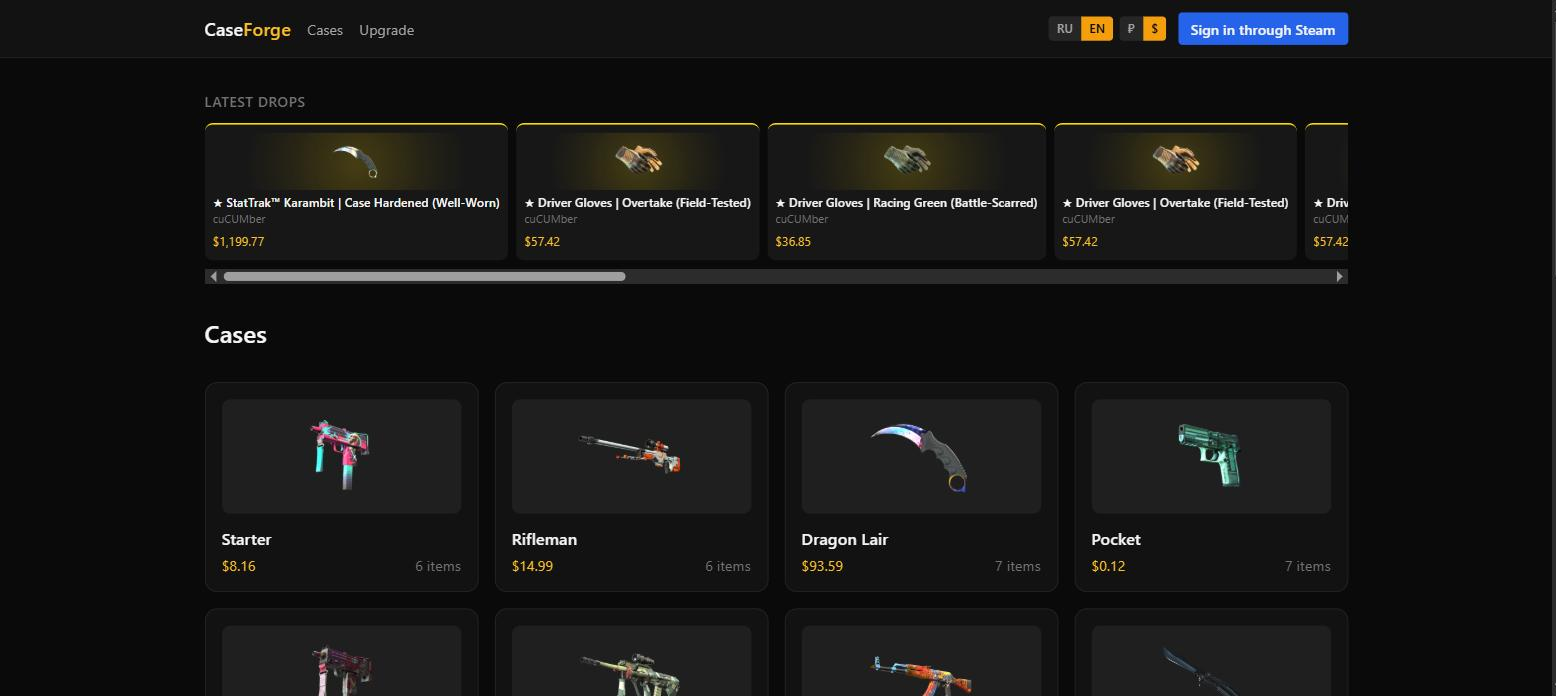
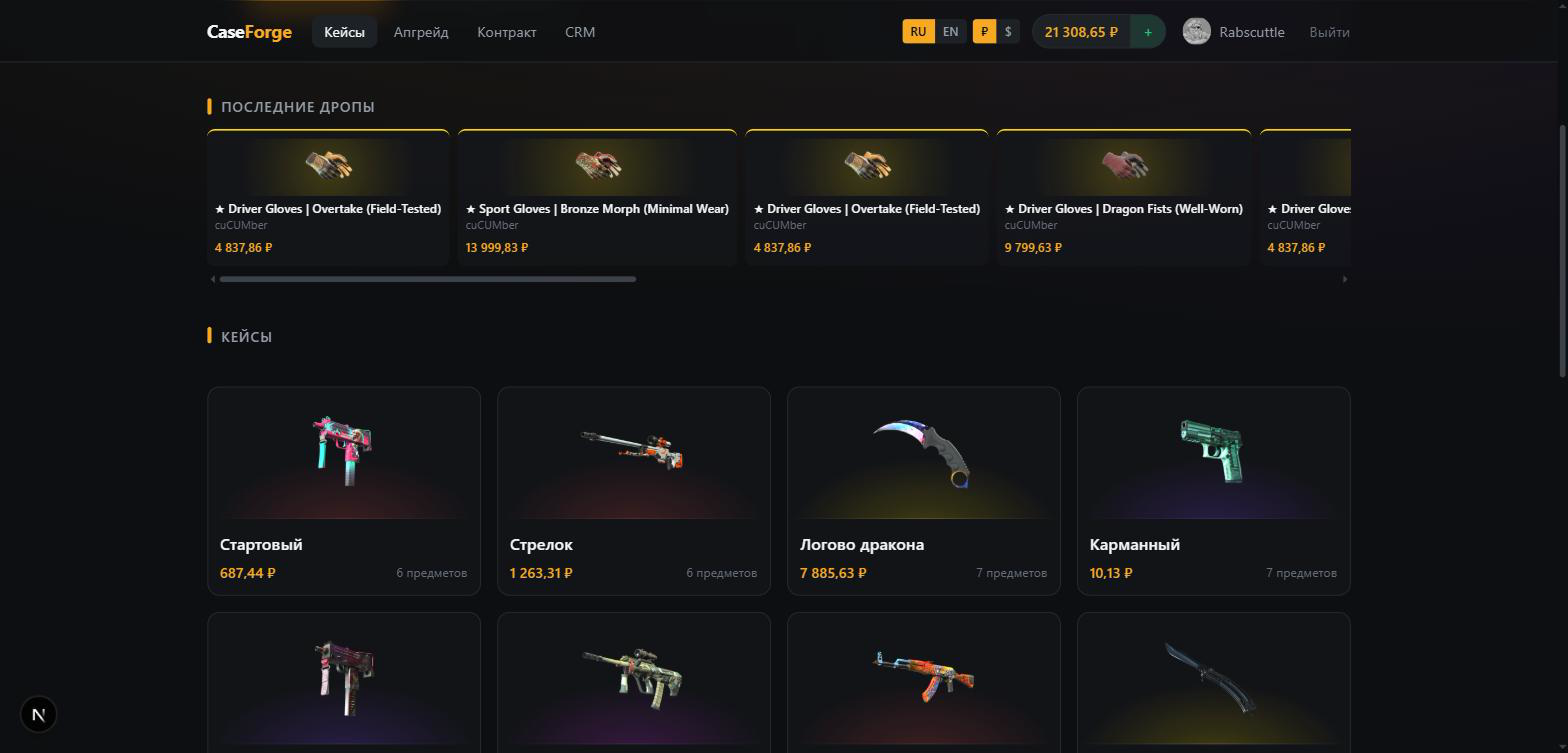
docs: refresh the screenshots and show contracts and the inventory
The catalogue and case shots predated the design tokens and showed an interface
that no longer exists. Both are retaken, and three more are added for the parts
the README described in prose but never showed.

The contract shot carries the argument the section makes: the staked items, the
reward band they imply, and the solved table the roll actually runs against. The
two inventory shots are the same panel on its available and history tabs, which
is the clearest way to say that nothing is deleted — a sold or staked item keeps
its row and carries the status explaining where it went.

Contracts and the inventory module also join the feature list and the source
layout, which had not caught up with them.

diff --git a/README.ru.md b/README.ru.md
@@ -175,6 +175,8 @@ pnpm test:smoke    # сквозной прогон против запущенн
 - **открытие до 10 кейсов за раз**: своя лента на каждый кейс, останавливаются по очереди
 - **мгновенная продажа дропа** прямо из окна результатов, поштучно или всё сразу
 - **апгрейд**: ставка своего скина против более дорогого, шанс выводится из отношения цен
+- **контракты**: обмен от 3 до 10 предметов на один по таблице исходов,
+  решённой так, что матожидание выплаты — те же 90%, что и в кейсах
 - provably fair: сид-пары, ротация с раскрытием, перепроверка **в браузере**
   независимой реализацией на Web Crypto
 - открытие кейса одной транзакцией с атомарным списанием и резервированием nonce
@@ -230,6 +232,32 @@ pnpm test:smoke    # сквозной прогон против запущенн
 Трейд-ссылка проверяется на принадлежность аккаунту: `partner` в ней — это младшие
 32 бита SteamID64, и чужая ссылка отсекается до того, как по ней уйдёт вывод.
 
+Из инвентаря предметы не удаляются. Продажа, вывод или вложение переводят предмет
+в другой статус, и он остаётся на аккаунте записью о том, что произошло, — игрок,
+продавший нож, всё ещё может найти его и посмотреть, сколько за него получил.
+Вкладки делят инвентарь по тому, что игрок ищет, а ценовые диапазоны сужают
+выборку дальше.
+
+<p align="center">
+  <img src="docs/screenshots/inventory.png" alt="Инвентарь с фильтром по доступным предметам, у каждого кнопки продажи и вывода" width="900">
+</p>
+
+<p align="center">
+  <em>Доступные предметы с фильтрами по состоянию и цене. Продажа всего, что на экране, спрашивает подтверждение и сначала называет сумму.</em>
+</p>
+
+<p align="center">
+  <img src="docs/screenshots/inventory-history.png" alt="Вкладка истории инвентаря с проданными, выведенными и вложенными предметами" width="900">
+</p>
+
+<p align="center">
+  <em>Тот же инвентарь на вкладке истории: проданные, выведенные и вложенные предметы сохраняют строку и несут статус, объясняющий, куда они делись.</em>
+</p>
+
+**Вывод из инвентаря — заглушка.** Он помечает предмет выведенным и больше не
+делает ничего: ни бота, ни трейд-оффера, ни очереди. Настоящий путь — модуль
+выводов, описанный ниже, и заглушка его не трогает.
+
 **Пополнение — заглушка.** Кнопка «Пополнить» начисляет введённую сумму без всякой
 оплаты. Это сделано, чтобы можно было гонять игровой цикл до подключения платёжного
 провайдера. Начисление всё равно идёт через `Transaction`, поэтому ночная сверка
@@ -258,6 +286,33 @@ pnpm test:smoke    # сквозной прогон против запущенн
 Исход считается тем же роллом, что и открытие кейса — по той же паре сидов и
 общему счётчику `nonce`. Отдельной проверки честности для апгрейда не нужно:
 он проверяется ровно так же.
+
+---
+
+## Контракты
+
+`/contract` — игрок складывает от 3 до 10 предметов и получает ровно один. В
+отличие от апгрейда проигрышной ветки нет: контракт выплачивает всегда, вопрос
+только в том, что именно.
+
+<p align="center">
+  <img src="docs/screenshots/contract.png" alt="Контракт из пяти вложенных предметов и полная таблица возможных исходов" width="900">
+</p>
+
+<p align="center">
+  <em>Вложенные предметы, вытекающий из них диапазон награды и таблица, по которой реально пройдёт ролл, — каждый исход с шансом, посчитанным сервером.</em>
+</p>
+
+Таблица не назначается вручную. Награды берутся из каталога в коридоре от 0.1x до
+5x вложенной суммы, а веса подбираются так, чтобы матожидание равнялось
+`ставка × 90%` — та же маржа, что в кейсах и апгрейде. Веса задаются
+экспоненциальным наклоном по пулу, показатель ищется бисекцией. Смысл конструкции
+в том, что маржа становится константой системы, а не свойством того, что в этот
+момент оказалось в ценовом коридоре.
+
+Решённая таблица складывается снимком в строку контракта. Пул строится по живому
+каталогу, и восстановить его позже из цен, которые с тех пор сдвинулись, нельзя —
+без снимка ролл остался бы воспроизводимым, но перестал бы что-либо означать.
 
 ---
 
@@ -330,6 +385,8 @@ apps/
     src/admin/               CRM: отчёты, конструктор кейсов, аудит
     src/steam/               OpenID, маркет Steam, синхронизация цен и картинок
     src/upgrade/             апгрейд: шансы, ролл, списание ставки
+    src/contracts/           контракты: решённая таблица исходов, ролл, награда
+    src/inventory/           инвентарь: фильтры, продажа, заглушка вывода
     src/common/              конфиг, Prisma, Redis, курсы валют, роли, ночная сверка
     test/smoke.mjs           сквозной прогон против живого API
   bot/
@@ -339,7 +396,7 @@ apps/
     src/withdrawal-processor.ts  идемпотентная обработка заявки
     scripts/add-bot.ts       заведение бота
   web/
-    src/app/                 главная, кейс, профиль, CRM, колбэк Steam
+    src/app/                 главная, кейс, апгрейд, контракт, профиль, CRM, колбэк Steam
     src/app/admin/cases/     список кейсов и конструктор
     src/components/          лента дропов, барабан открытия, карточки
     src/lib/                 API-клиент, стор, сокет
@@ -351,6 +408,8 @@ packages/
     src/tickets.ts           тикет-пространство, валидация диапазонов, RTP
     src/balancing.ts         автоподбор шансов под целевой RTP, вердикт по марже
     src/upgrade.ts           шансы и границы апгрейда
+    src/contract.ts          таблица наград контракта: наклон и его солвер
+    src/inventory.ts         статусы инвентаря, фильтры и ценовые диапазоны
     src/steam-market.ts      разбор ответов маркета: цены, редкость, картинки
     src/provably-fair.ts     серверная криптография (node:crypto)
     src/verify.ts            браузерная перепроверка (Web Crypto)

diff --git a/README.md b/README.md
@@ -169,6 +169,8 @@ maintenance for an audience of a few people.
 - **instant sale of a drop** straight from the results panel, per item or all at once
 - **upgrade**: stake your skin against a pricier one, with the chance derived
   from the price ratio
+- **contracts**: trade 3 to 10 items for one, over a reward table solved so the
+  expected payout is the same 90% the cases run on
 - provable fairness: seed pairs, rotation with reveal, and re-verification **in
   the browser** by an independent Web Crypto implementation
 - case opening in a single transaction with an atomic debit and nonce reservation
@@ -221,6 +223,32 @@ The trade URL is checked against the account: `partner` in it is the low 32 bits
 of the SteamID64, and somebody else's link is rejected before a withdrawal could
 follow it.
 
+Items are never deleted from the inventory. Selling, withdrawing or staking one
+moves it to another status and it stays on the account as a record of what
+happened — a player who sold a knife can still find it and see what they got for
+it. The tabs split the inventory by what the player is looking for, and the price
+bands narrow it further.
+
+<p align="center">
+  <img src="docs/screenshots/inventory.png" alt="The inventory filtered to available items, each with a sell and a withdraw button" width="900">
+</p>
+
+<p align="center">
+  <em>Available items, filtered by state and price band. Selling everything on screen asks for confirmation and names the amount first.</em>
+</p>
+
+<p align="center">
+  <img src="docs/screenshots/inventory-history.png" alt="The inventory history tab showing sold, withdrawn and staked items" width="900">
+</p>
+
+<p align="center">
+  <em>The same inventory on its history tab: sold, withdrawn and staked items keep their row and carry the status that explains where they went.</em>
+</p>
+
+**Withdrawal from the inventory is a stub.** It marks the item withdrawn and does
+nothing else — no bot, no trade offer, no queue. The real path is the withdrawals
+module described further down, and it is untouched by it.
+
 **Top-up is a stub.** The button credits the entered amount with no payment at
 all. It exists so the gameplay loop can be exercised before a payment provider
 is wired in. The credit still goes through `Transaction`, so the nightly balance
@@ -249,6 +277,34 @@ formula as the chance, so the list never offers an option the server will refuse
 The outcome comes from the same roll as a case opening — the same seed pair and
 the shared `nonce` counter. The upgrade needs no fairness page of its own: it is
 verified exactly the same way.
+
+---
+
+## Contracts
+
+`/contract` — the player throws between 3 and 10 items in and gets exactly one
+back. Unlike an upgrade there is no losing branch: a contract always pays out,
+the only question is what.
+
+<p align="center">
+  <img src="docs/screenshots/contract.png" alt="A contract with five staked items and the full table of possible outcomes" width="900">
+</p>
+
+<p align="center">
+  <em>The staked items, the reward band they imply, and the table the roll will actually run against — every outcome with the chance the server computed for it.</em>
+</p>
+
+The table is not authored by hand. Rewards are drawn from the catalogue in a band
+of 0.1x to 5x the staked sum, and the weights are solved so the expected reward
+equals `stake × 90%` — the same margin the cases and the upgrade run on. The
+weights follow an exponential tilt over the pool, with the exponent found by
+bisection. The point of the construction is that the margin becomes a constant of
+the system rather than a property of whatever happens to be priced inside the
+band.
+
+The solved table is snapshotted onto the contract row. The pool comes from a live
+catalogue and cannot be rebuilt later from prices that have since moved — without
+the snapshot the roll would stay reproducible but would no longer mean anything.
 
 ---
 
@@ -320,6 +376,8 @@ apps/
     src/auth/                Steam OpenID + JWT
     src/cases/               case opening — the core of the project
     src/upgrade/             upgrade: odds, roll, stake consumption
+    src/contracts/           contracts: solved outcome table, roll, reward
+    src/inventory/           inventory: filters, selling, the withdrawal stub
     src/drops/               batched WebSocket feed
     src/withdrawals/         withdrawal requests and queueing
     src/admin/               CRM: reports, case builder, audit
@@ -333,7 +391,7 @@ apps/
     src/withdrawal-processor.ts  idempotent request handling
     scripts/add-bot.ts       bot registration
   web/
-    src/app/                 home, case, upgrade, profile, CRM, Steam callback
+    src/app/                 home, case, upgrade, contract, profile, CRM, Steam callback
     src/app/admin/cases/     case list and builder
     src/components/          drop feed, opening reel, cards, switches
     src/lib/                 API client, auth store, settings store, socket
@@ -345,6 +403,8 @@ packages/
     src/tickets.ts           ticket space, range validation, RTP
     src/balancing.ts         auto-solved odds for a target RTP, margin verdict
     src/upgrade.ts           upgrade odds and bounds
+    src/contract.ts          contract reward table: the tilt and its solver
+    src/inventory.ts         inventory statuses, filters and price bands
     src/steam-market.ts      market response parsing: prices, rarity, images
     src/provably-fair.ts     server-side cryptography (node:crypto)
     src/verify.ts            in-browser re-verification (Web Crypto)
